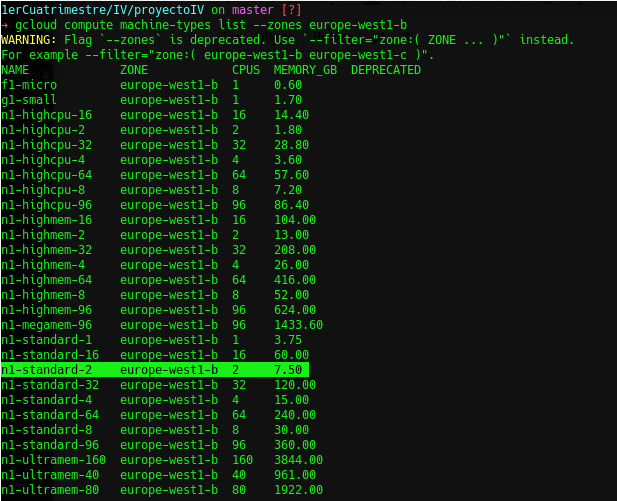
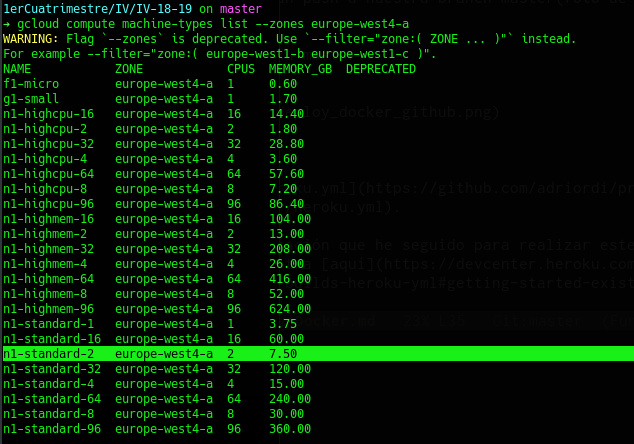
Add deploy IaaS documentation closes #29

Changed region(s): [[0.0, 0.0, 1.0, 1.0], [0.7699, 0.0586, 0.9238, 0.1171]]

diff --git a/docs/DespliegueIaaS.md b/docs/DespliegueIaaS.md
@@ -1,0 +1,167 @@
+# Despliegue en un IaaS
+
+## Primeros pasos.
+Lo primero que hice fue documentarme e logearme en diferentes infraestructuras, al final elegí Google Cloud que nos logeamos con nuestro correo de Gmail y nos da 300$ de crédito gratis para gastar en un año.
+
+## Creación de un proyecto.
+Una vez dentro y logeados en nuestra cuenta, nos vamos al apartado **Administrar recursos** y pinchamos en **Crear proyecto**. Elegimos el nombre de nuestro proyecto y su id(el id debemos guardarlo para usarlo después). Terminamos clickando en siguiente y rellenando los campos como nos indican.
+
+## Creación de nuestra instancia y configuración ssh.
+Podemos crear una máquina desde la página pero en nuestro caso vamos a usar **vagrant**, lo podemos descargar e instalar desde este [enlace](https://www.vagrantup.com/downloads.html).
+Nuestro siguiente paso será la creación del **Vagrantfile** que podemos hacer con el comando `vagrant init`, pero en mi caso a parte del nombre me sirve de poco el que crea.
+````shell
+# -*- mode: ruby -*-
+# vi: set ft=ruby :
+Vagrant.configure("2") do |config|
+  config.vm.box = "google/gce"
+
+  config.vm.provider :google do |google, override|
+    google.google_project_id = "proyectoiv-2"
+    google.google_client_email = "adrian@proyectoiv-2.iam.gserviceaccount.com "
+    google.google_json_key_location = "~/.ssh/proyectoiv-2-d237bacf85b8.json"
+
+    google.name = "workwaitqueue"
+    google.zone = "europe-west4-a"
+    google.machine_type = "n1-standard-2"
+    google.image = "ubuntu-1604-xenial-v20190112"
+
+    override.ssh.username = "archdri"
+    override.ssh.private_key_path = "/home/archdri/.ssh/google_compute_engine"    
+  end
+  
+  # Provisionamiento - Ansible
+  config.vm.provision "ansible" do |ansible|
+    ansible.become = true
+    ansible.verbose = "vvvv"
+    ansible.playbook = "./provision/playbook.yml"
+  end
+end
+````
+
+Este es [mi Vagrantfile](https://github.com/adriordi/proyectoIV/blob/master/Vagrantfile).
+En el cual viene toda la configuración de nuestra máquina virtual, la primera línea es para que coja la box de **Google** sin tener que descargarla específicamente, solamente al levantar nuestra instancia será con el comando `vagrant up --provider=google`.
+
+En las siguientes debemos poner las credenciales, os acordáis del id de antes pues ahora es cuando lo vamos a usar y lo ponemos en `google.google_project_id`, en `google.google_client_email` ponemos el email que obtenemos al crear el json que debemos poner en `google.google_json_key_location`. El email y el json se obtiene en el apartado de **Administración de APIs** -> **Crear credenciales** -> **Clave de cuenta de servicio** -> **JSON**.
+El email es el que elegimos y que acaba en **.iam.gserviceaccount.com**.
+
+En las siguientes líneas se define el nombre de la máquina virtual, la zona dónde se encontrará nuestra instancia, elegimos una de las disponibles que se pueden ver con el comando: `gcloud compute zones list`. He elegido la primera que sale de Europa oeste. 
+
+![](./imgs/gcloud_compute_zones_list.png)
+
+
+El tipo de máquina virtual, que podemos elegir el que mejor se adapte según veamos con el comando: `gcloud machine-types list --zone (zona elegida anteriormente)`. En mi caso he elegido una máquina que dispone de 2 CPUs y 7,5GB de memoria para tener más que suficiente.
+
+![](./imgs/gcloud_compute_machine.png)
+
+
+Por último también ponemos la imagen que queramos para nuestra máquina, las disponibles se pueden ver con: `gcloud compute images list`. Al final me decanté por `Ubuntu 16.04 lts` que ya lo he usado anteriormente.
+
+
+![](./imgs/gcloud_compute_images_list.png)
+
+
+Para poder usar los comandos anteriores se debe instalar el sdk de google cloud que dejo la documentación oficial por [aquí](https://cloud.google.com/sdk/install).
+
+Las dos últimas líneas de mi Vagrantfile, antes de empezar con el provisionamiento a través de ansible, es para la conexión por ssh. Antes de explicarlas, hay que añadir la clave  pública que vamos a usar de nuestro par de claves ssh, para ello nos vamos al apartado **Compute Engine** -> **Metadatos** -> **Claves ssh** y añadimos la **clave pública** del par de claves ssh que vamos a utilizar para nuestra conexión. Google cloud nos proporciona por defecto un par de claves que se crean automáticamente y son las que he utilizado en mi caso. Volvemos a mi Vagrantfile para explicar las dos últimas líneas, en la primera debemos poner el usuario por el que vamos a conectarnos y en la segunda el path de nuestra clave privada.
+
+## Provisionamiento con ansible.
+Siguiendo con el Vagrantfile, debemos añadir principalmente el path a donde se encuentra nuestra receta con `ansible.playbook`, además he añadido una función para que se pueda hacer sudo con `ansible.become = true` y `ansible.verbose` para depurar.
+
+Enlace a mi [playbook](https://github.com/adriordi/proyectoIV/blob/master/provision/playbook.yml)
+
+````yml
+---
+- name: Provision
+  hosts: all
+  remote_user: archdri
+  become: true
+
+  tasks:
+
+  - name: Update system
+    become: true
+    command: sudo apt-get update
+
+  - name: Ensure python-apt is installed
+    command: >
+      apt-get install python-apt -y -q
+      creates=/usr/share/doc/python-apt
+    become: yes
+
+  - name: Install Python3.6
+    become: true
+    command: sudo apt-get -y install python3.6
+
+  - name: Install pip
+    become: true
+    command: sudo apt-get -y install python3-venv python3-pip
+    
+
+  - name: Clone my GitHub repository
+    git: repo=https://github.com/adriordi/proyectoIV.git dest=proyectoIV/ force=yes
+
+  - name: Install project
+    command: make install
+
+  - name: Update system again
+    become: true
+    command: sudo apt-get update
+
+````
+
+Para realizar este archivo de provisión he leido la [documentación oficial de ansible](https://docs.ansible.com/ansible/latest/user_guide/playbooks.html).
+Al principio de este archvio vuelvo a poner el usuario que vamos a conectar por ssh y el `become: true` como he explicado en el apartado anterior además de crear mi archivo de hosts en el path `/etc/ansible/hosts` para añadir todos mis hosts al que se va a conectar. En el archivo pongo `hosts: all` para que pruebe con todos pero se podría poner diferentes grupos de hosts para diferentes recetas de ansible.
+Las demás tareas vienen explicadas un poco en el nombre pero básicamente las hago para instalar lo necesario que necesitará mi máquina virtual.
+
+Para instalar ansible, en mi caso lo he realizado con: `pip3 install ansible`
+
+## Despliegue con fabric.
+Para instalar fabric: `pip install fabric`.
+Creamos un archivo fabfile.py, enlace al [mio](https://github.com/adriordi/proyectoIV/blob/master/despliegue/fabfile.py), en el cual definimos funciones que nos permiten desplegar y administrar nuestro proyecto.
+
+````python
+from fabric import *
+from fabric.api import *
+from fabric.network import ssh
+
+
+def Instalar():
+    "Clona el repositorio e instala las dependencias"
+    run('sudo rm -rf proyectoIV')
+    run('git clone https://github.com/adriordi/proyectoIV.git')
+    run('cd proyectoIV && make install')
+
+def Iniciar():
+    "Inicia la aplicacion"
+    run('cd proyectoIV/ && sudo gunicorn api_queue:__hug_wsgi__ -b 0.0.0.0:80')
+````
+
+Como se puede ver, yo solo dispongo de dos funciones que nos van a permitir ejecutar comandos remotamente en nuestra máquina virtual.
+En la primera función borramos lo clonado ya en el ansible y lo volvemos a clonar además de hacer `make install` para instalar el proyecto.
+En la segunda nos movemos al directorio del proyecto y la desplegamos por el puerto 80 como vemos en la imagenes.
+
+
+![](./imgs/archdri_ssh_pssw_require.png)
+
+
+Como se observa, me pide la contraseña del usuario archdri para poder realizar el despliegue, esta contraseña no era ninguna por defecto y solo conseguí realizar el despliegue conectandome por ssh con: `vagrant ssh` y configurando una nueva contraseña con: `sudo passwd archdri`
+
+
+![](./imgs/vagrantssh.png)
+
+Así que una vez cambiado, ya puedo hacer el despliegue correctamente con el comando: `fab -f ./despliegue/fabfile.py -H archdri@35.204.69.190 -i ~/.ssh/google_compute_engine (funcion del fabfile.py)`
+
+
+![](./imgs/fab_Instalar.png)
+
+
+
+![](./imgs/fab_iniciar.png)
+
+
+
+![](./imgs/deploy_done.png)
+
+
+
+IP donde se puede ver el despliege: [35.204.69.190](http://35.204.69.190/)
